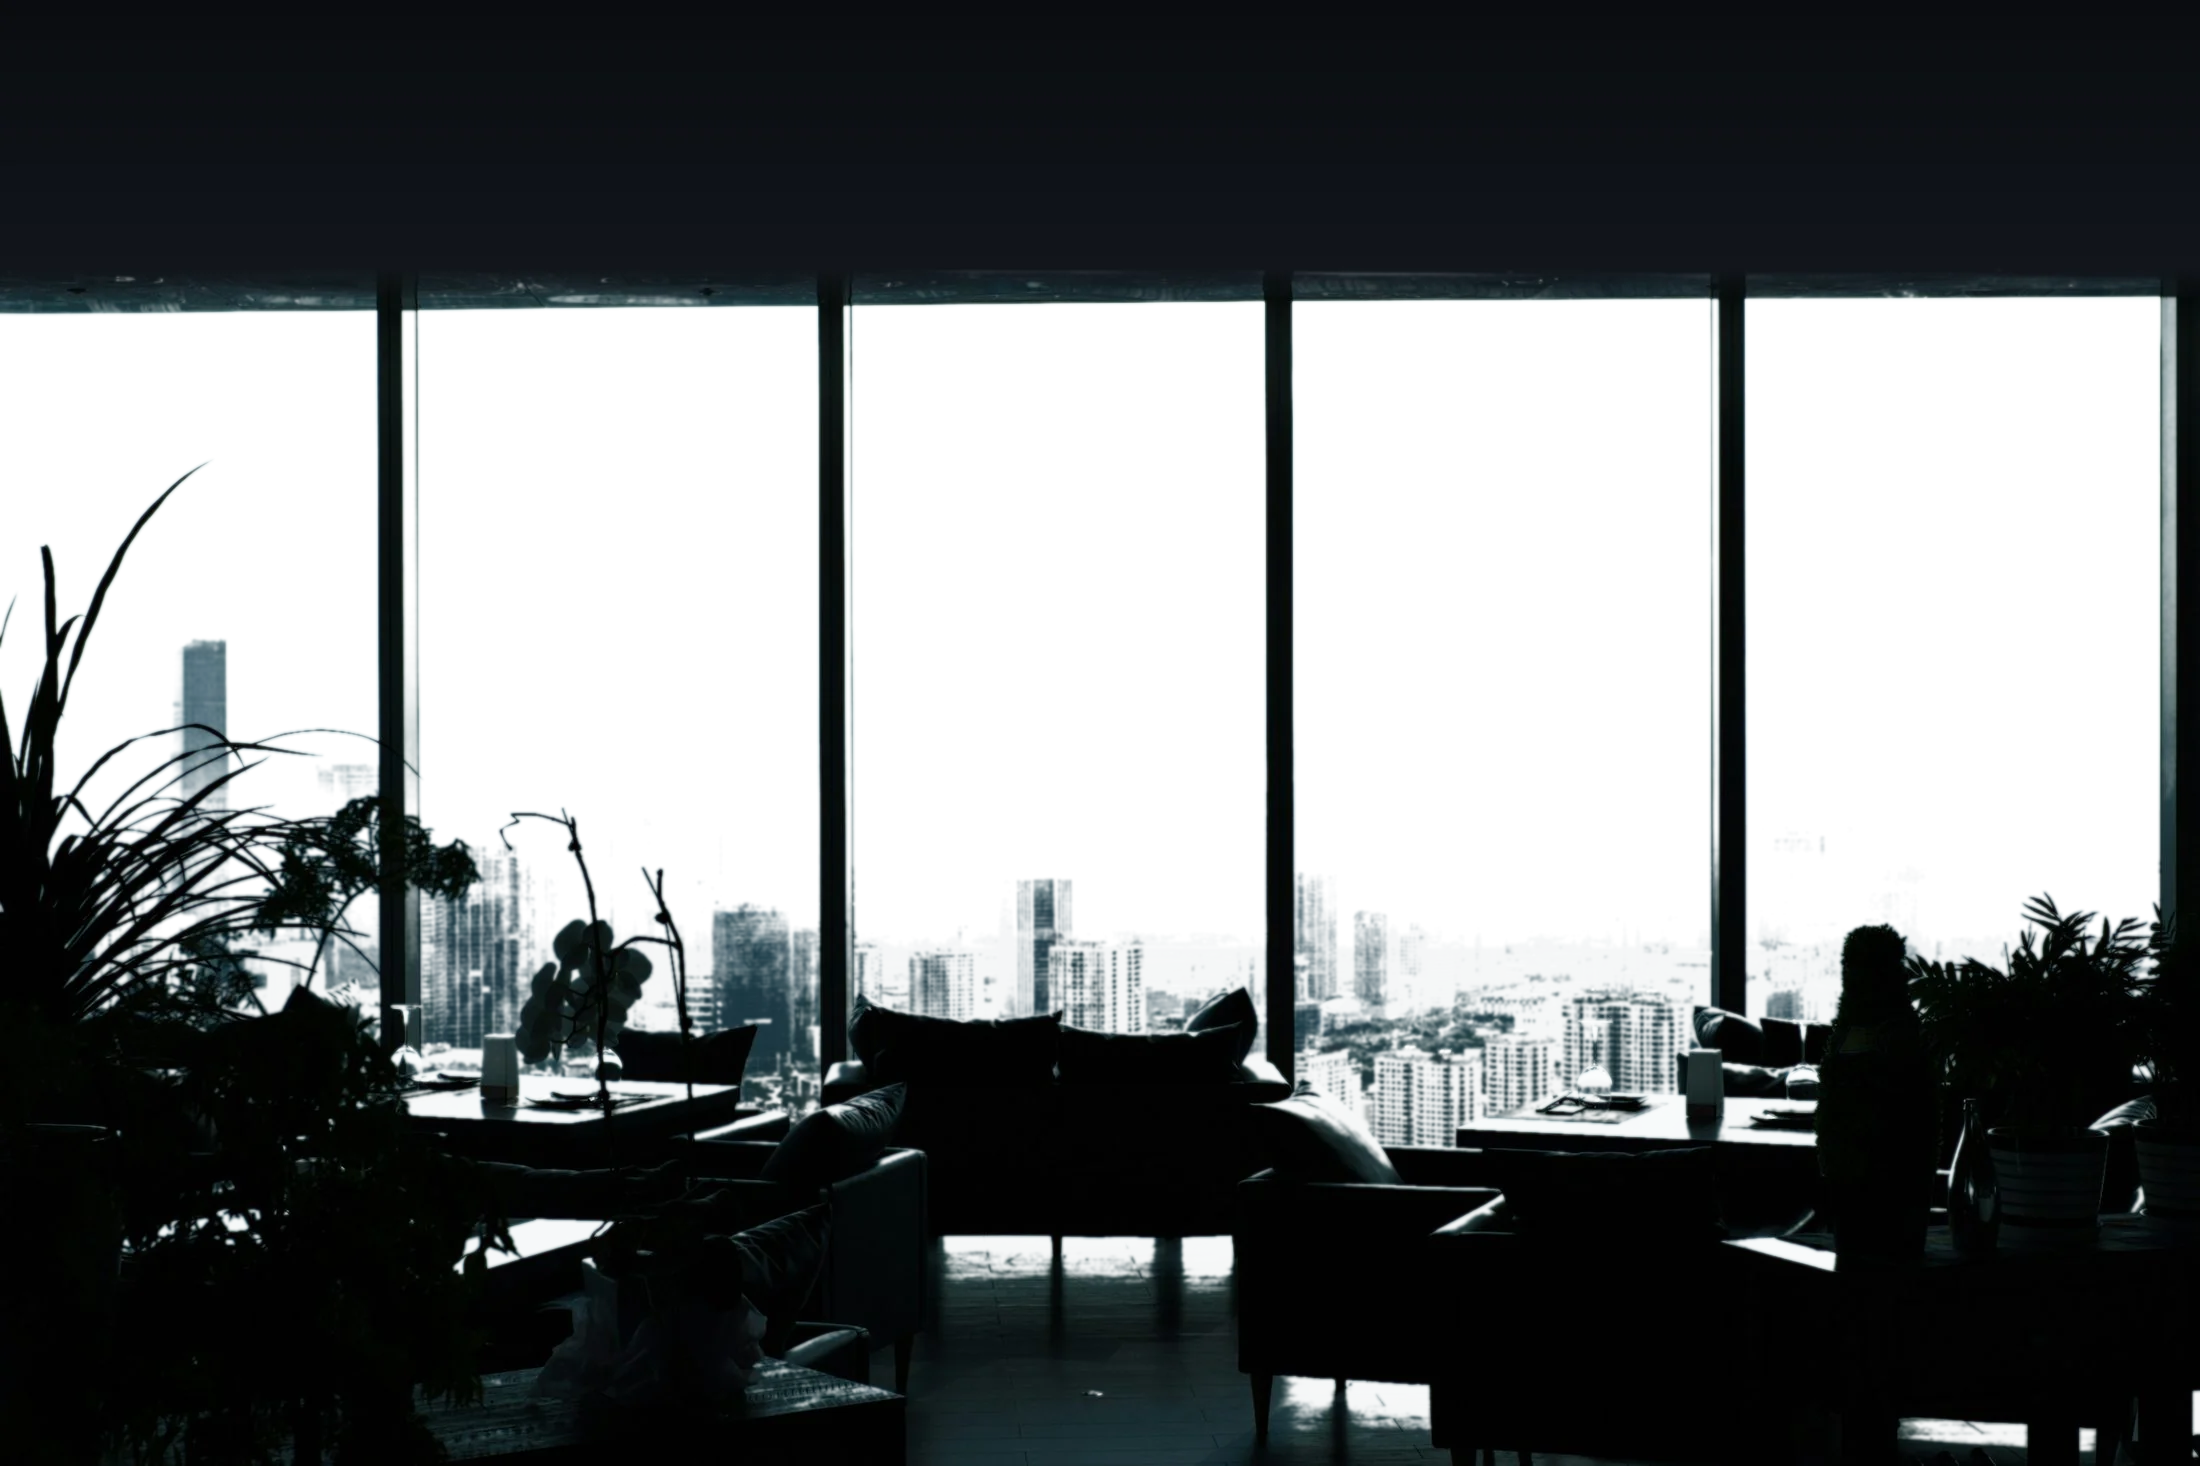
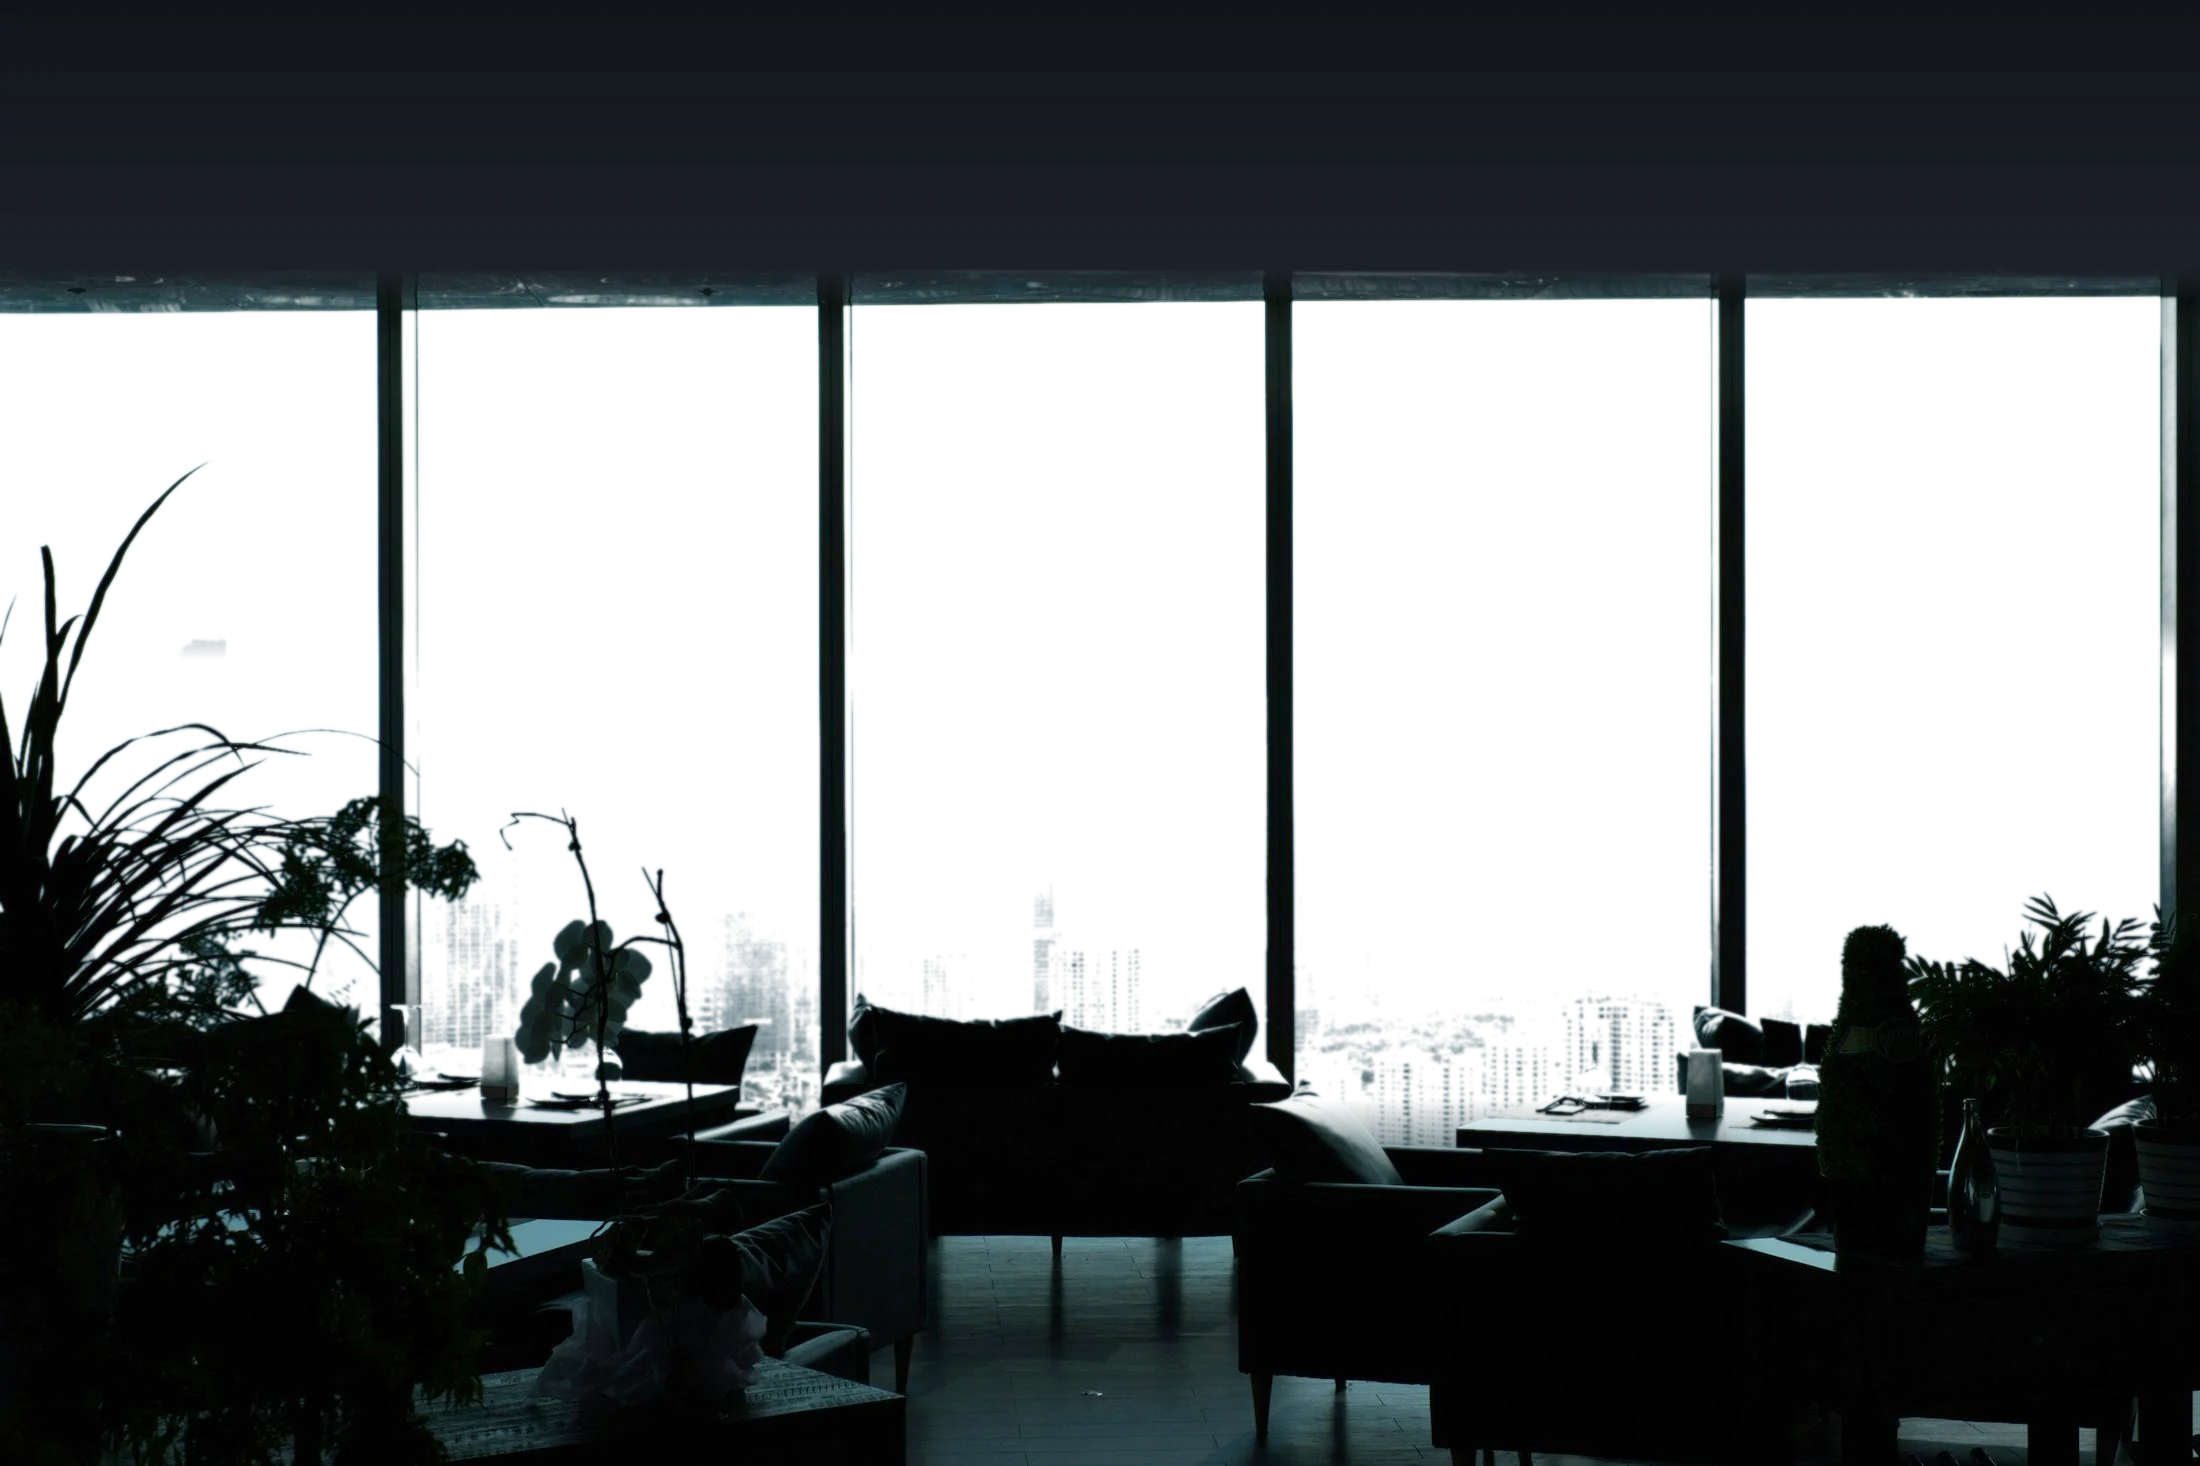
Hero: clear lower-glass building reflection + brighten opening frame
The opening frame still showed a light-blue ghost of reflected apartment
buildings on the lower glass at couch level (y0.66-0.77, worst on the right).
Replace the luminance/teal matte with a combined blue+teal colour key whose
region now reaches down to y0.80, dissolving the reflected band to the clean
real skyline while a brightness floor keeps the dark couches, tables, glassware,
plants and mullions opaque. The windows now read completely see-through.

Also brighten the start: shadow-lift the kept room in the cutout, lower the z-1
glass navy overlay (~0.48 -> ~0.22) and raise its backdrop brightness
(0.96 -> 1.10). Verified in-browser across the full scroll; payoff unchanged.

diff --git a/src/components/ScrollHero.tsx b/src/components/ScrollHero.tsx
@@ -217,9 +217,9 @@ export default function ScrollHero() {
           className="pointer-events-none absolute inset-0 z-[1]"
           style={{
             background:
-              "linear-gradient(180deg, rgba(12,20,36,0.50), rgba(8,12,24,0.46)), linear-gradient(115deg, rgba(150,172,196,0.10), transparent 50%)",
-            backdropFilter: "saturate(0.6) brightness(0.96)",
-            WebkitBackdropFilter: "saturate(0.6) brightness(0.96)",
+              "linear-gradient(180deg, rgba(12,20,36,0.24), rgba(8,12,24,0.20)), linear-gradient(115deg, rgba(150,172,196,0.10), transparent 50%)",
+            backdropFilter: "saturate(0.68) brightness(1.10)",
+            WebkitBackdropFilter: "saturate(0.68) brightness(1.10)",
           }}
           aria-hidden="true"
         />